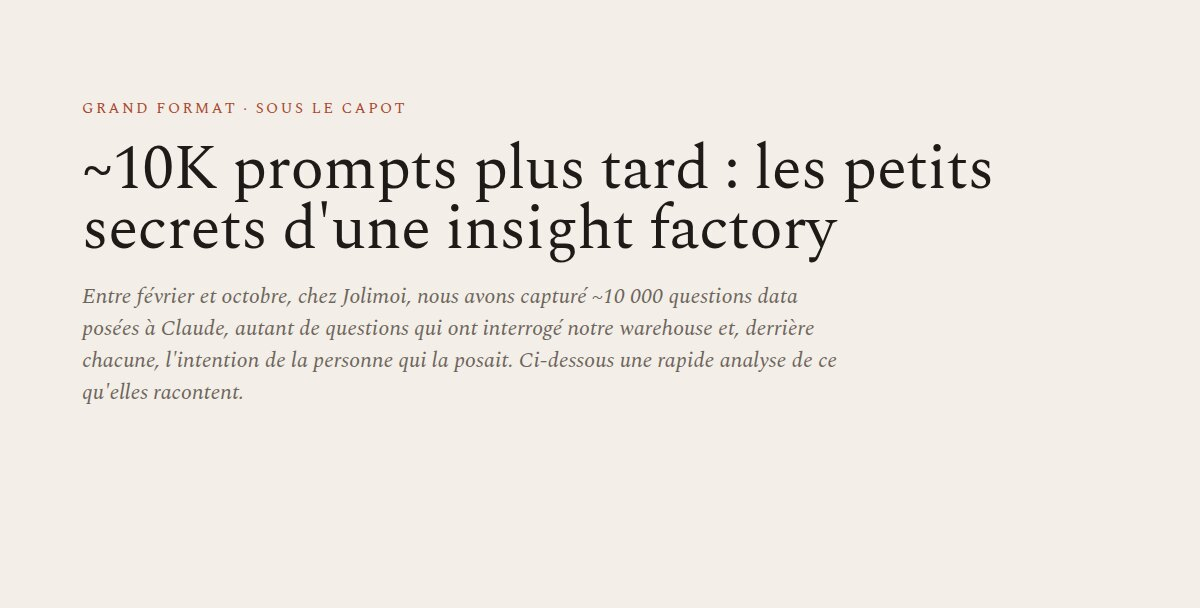
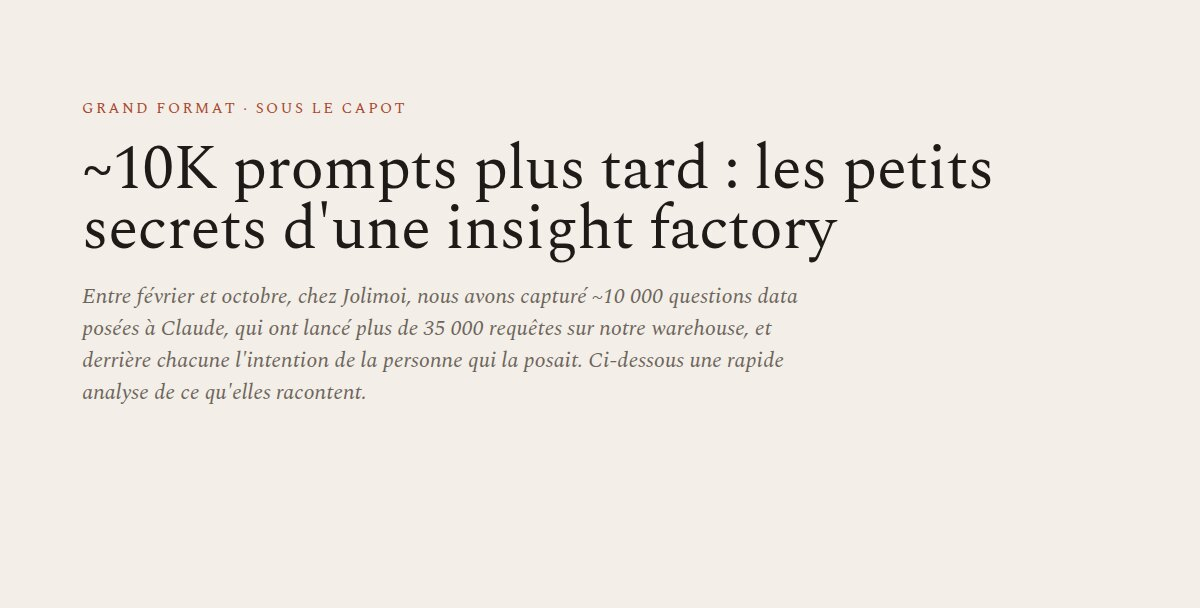
fix(work): state the SQL volume in the long read lede

Changed region(s): [[0.0617, 0.5312, 0.6783, 0.6562]]

diff --git a/apps/questions-a-claude/index.html b/apps/questions-a-claude/index.html
@@ -107,7 +107,7 @@
   <div class="inner">
     <div class="kicker">Grand format · Sous le capot</div>
     <h1 style="font-size:clamp(40px, 5.6vw, 84px)">~10K prompts plus tard : les petits secrets d'une insight factory</h1>
-    <p class="lede">Entre février et octobre, chez Jolimoi, nous avons capturé ~10 000 questions data posées à Claude, autant de questions qui ont interrogé notre warehouse et, derrière chacune, l'intention de la personne qui la posait. Ci-dessous une rapide analyse de ce qu'elles racontent.</p>
+    <p class="lede">Entre février et octobre, chez Jolimoi, nous avons capturé ~10 000 questions data posées à Claude, qui ont lancé plus de 35 000 requêtes sur notre warehouse, et derrière chacune l'intention de la personne qui la posait. Ci-dessous une rapide analyse de ce qu'elles racontent.</p>
     <p class="by">Par Alexis Blandin <span>· 24 novembre 2026 · 5 min de lecture</span></p>
   </div>
 </section>
